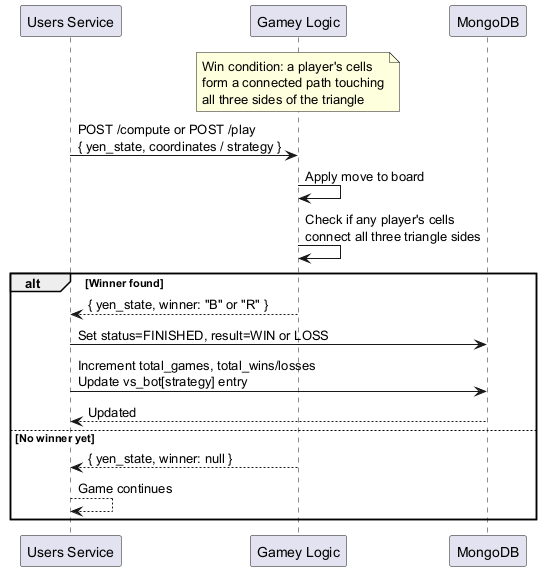
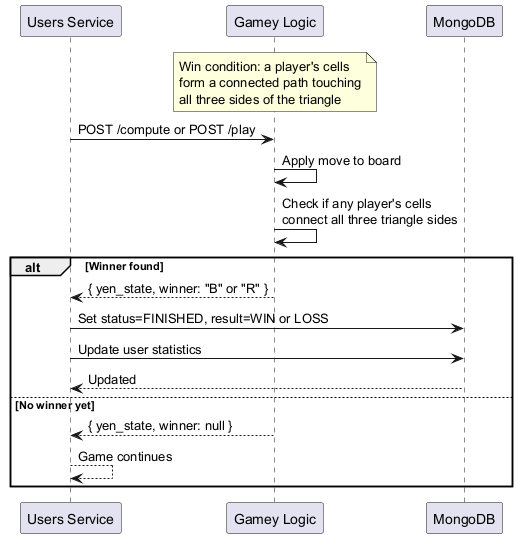
Updates

diff --git a/index.html b/index.html
@@ -1306,7 +1306,7 @@ Refer to details in the following sections.</p>
 <h3 id="_scenario_2_player_vs_player_game">6.2. Scenario 2: Player vs Player Game</h3>
 <div class="imageblock">
 <div class="content">
-<img src="./images/pvp-sequence.png" alt="pvp sequence" width="1008" height="1103">
+<img src="./images/pvp-sequence.png" alt="pvp sequence" width="889" height="975">
 </div>
 </div>
 <div class="paragraph">
@@ -1321,13 +1321,13 @@ Refer to details in the following sections.</p>
 <p>Player field in each move is inferred from <code>current_turn</code> — frontend does not send it</p>
 </li>
 <li>
-<p><code>yen_state</code> per move is computed by Gamey&#8217;s <code>/compute</code> endpoint — neither the frontend nor the backend computes it</p>
+<p><code>yen_state</code> per move is computed by Gamey&#8217;s <code>/compute</code> endpoint, not by the frontend or backend</p>
 </li>
 <li>
-<p>Gamey returns a <code>winner</code> field (<code>B</code>, <code>R</code>, or <code>null</code>) after every move — the backend auto-finishes the game if a winner is detected</p>
+<p>Gamey returns a <code>winner</code> field after every <code>/compute</code> call — see Scenario 4 for win detection details</p>
 </li>
 <li>
-<p>WIN/LOSS statistics are updated automatically by the backend — frontend only calls <code>/finish</code> for DRAW (user quit)</p>
+<p>DRAW result (user quit) does not update statistics</p>
 </li>
 </ul>
 </div>
@@ -1337,7 +1337,7 @@ Refer to details in the following sections.</p>
 <h3 id="_scenario_3_player_vs_bot_game">6.3. Scenario 3: Player vs Bot Game</h3>
 <div class="imageblock">
 <div class="content">
-<img src="./images/pve-sequence.png" alt="pve sequence" width="927" height="1471">
+<img src="./images/pve-sequence.png" alt="pve sequence" width="937" height="1083">
 </div>
 </div>
 <div class="paragraph">
@@ -1349,22 +1349,19 @@ Refer to details in the following sections.</p>
 <p>The backend acts as a proxy between the frontend and Gamey — the frontend never calls Gamey directly</p>
 </li>
 <li>
-<p><code>POST /compute</code> — Gamey receives <code>{ yen_state_prev, coordinates }</code> and returns <code>{ yen_state, winner }</code> after applying the move</p>
+<p><code>POST /compute</code> — Gamey receives <code>{ yen_state_prev, coordinates }</code> and returns <code>{ yen_state, winner }</code></p>
 </li>
 <li>
 <p><code>POST /play</code> — Gamey receives <code>{ yen_state, strategy, difficulty_level, board_size }</code> and returns <code>{ coordinates, yen_state, winner }</code></p>
 </li>
 <li>
-<p>Both <code>/compute</code> and <code>/play</code> return a <code>winner</code> field (<code>B</code>, <code>R</code>, or <code>null</code>) — the backend checks it after every move and auto-finishes the game if needed</p>
+<p>Both endpoints return a <code>winner</code> field — see Scenario 4 for win detection details</p>
 </li>
 <li>
-<p>Bot move is saved automatically by the Users Service — frontend only calls <code>GET /games/:id/play</code> and receives the full updated game state</p>
+<p>Bot move is saved automatically in the DB by the Users Service — frontend does not need to call <code>POST /games/:id/move</code> for the bot</p>
 </li>
 <li>
-<p>Difficulty level is derived automatically from strategy: <code>random</code> → easy, <code>dijkstra</code> → medium, <code>ai</code> → hard</p>
-</li>
-<li>
-<p>If it is the first move, <code>yen_state</code> is sent as <code>null</code> and Gamey generates the initial board state from <code>board_size</code></p>
+<p>If it is the first move, <code>yen_state_prev</code> / <code>yen_state</code> is sent as <code>null</code> and Gamey generates the initial board state from <code>board_size</code></p>
 </li>
 </ul>
 </div>
@@ -1374,7 +1371,7 @@ Refer to details in the following sections.</p>
 <h3 id="_scenario_4_win_detection">6.4. Scenario 4: Win Detection</h3>
 <div class="imageblock">
 <div class="content">
-<img src="./images/win-detection-sequence.png" alt="win detection sequence" width="542" height="571">
+<img src="./images/win-detection-sequence.png" alt="win detection sequence" width="518" height="538">
 </div>
 </div>
 <div class="paragraph">
@@ -1386,16 +1383,13 @@ Refer to details in the following sections.</p>
 <p>Win detection is fully handled by Gamey — the Users Service only reacts to the <code>winner</code> field</p>
 </li>
 <li>
-<p>The win condition is a connected path of a player&#8217;s cells touching all three sides of the triangular board</p>
+<p>The backend calls <code>autoFinishIfWinner</code> after every move (both player and bot) — if <code>winner</code> is not null, the game is finished and statistics updated automatically</p>
 </li>
 <li>
-<p>The Users Service calls <code>autoFinishIfWinner</code> after every move (both player and bot) — if <code>winner</code> is not null, it updates the game and statistics atomically</p>
+<p><code>winner: "B"</code> → human player wins → result is <code>WIN</code>; <code>winner: "R"</code> → bot wins → result is <code>LOSS</code></p>
 </li>
 <li>
-<p><code>winner: "B"</code> means the human player won → result is <code>WIN</code>; <code>winner: "R"</code> means the bot won → result is <code>LOSS</code></p>
-</li>
-<li>
-<p>Duration is calculated automatically from <code>game.created_at</code> when auto-finishing — no need for the frontend to send it</p>
+<p>Duration is calculated automatically from <code>game.created_at</code> when auto-finishing</p>
 </li>
 </ul>
 </div>